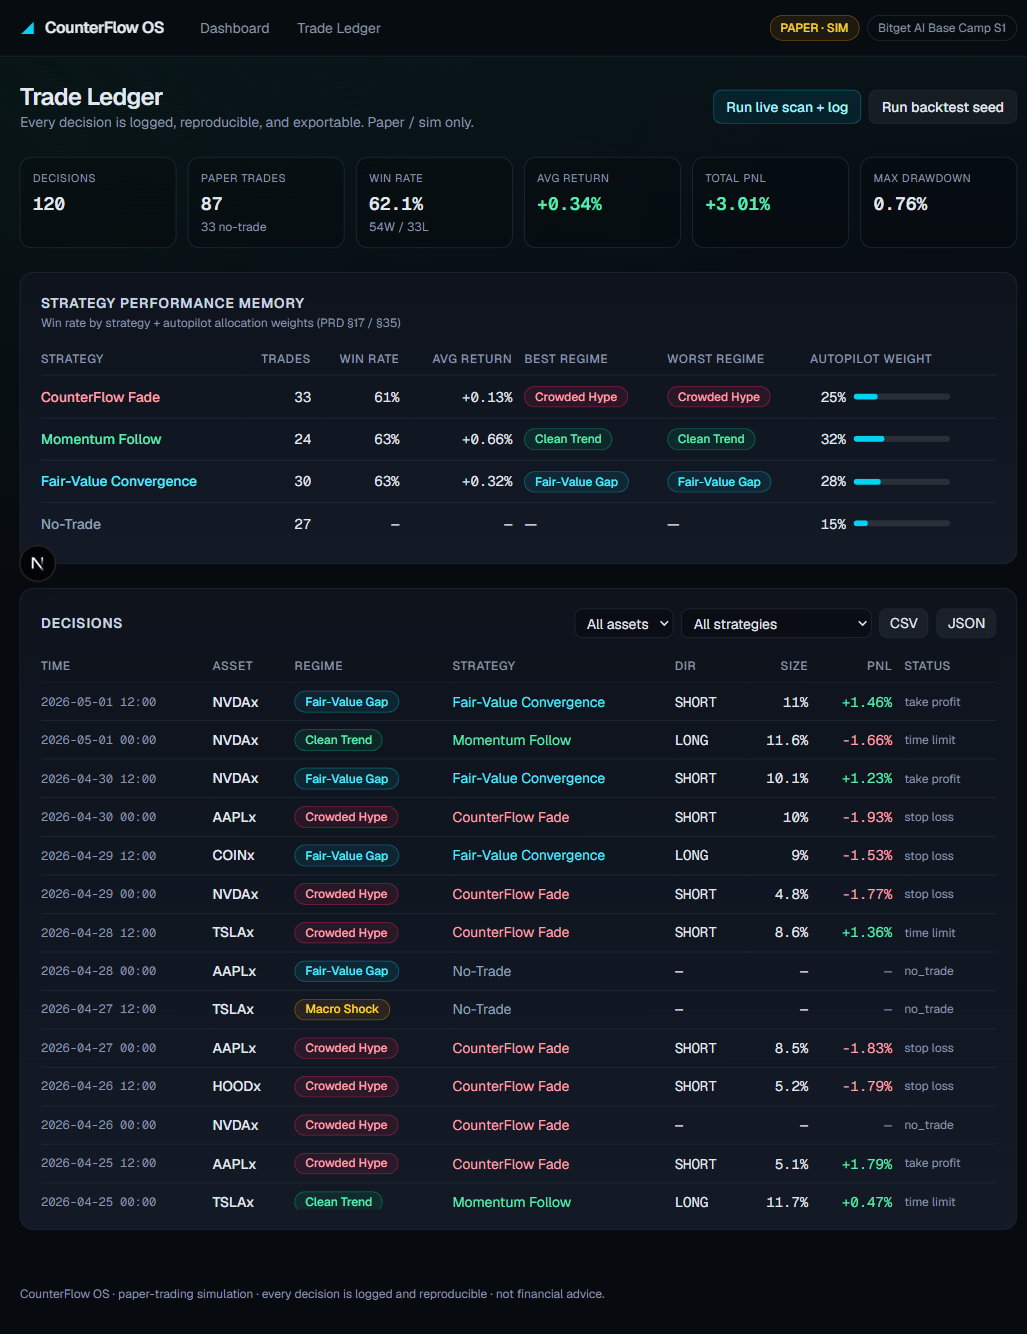
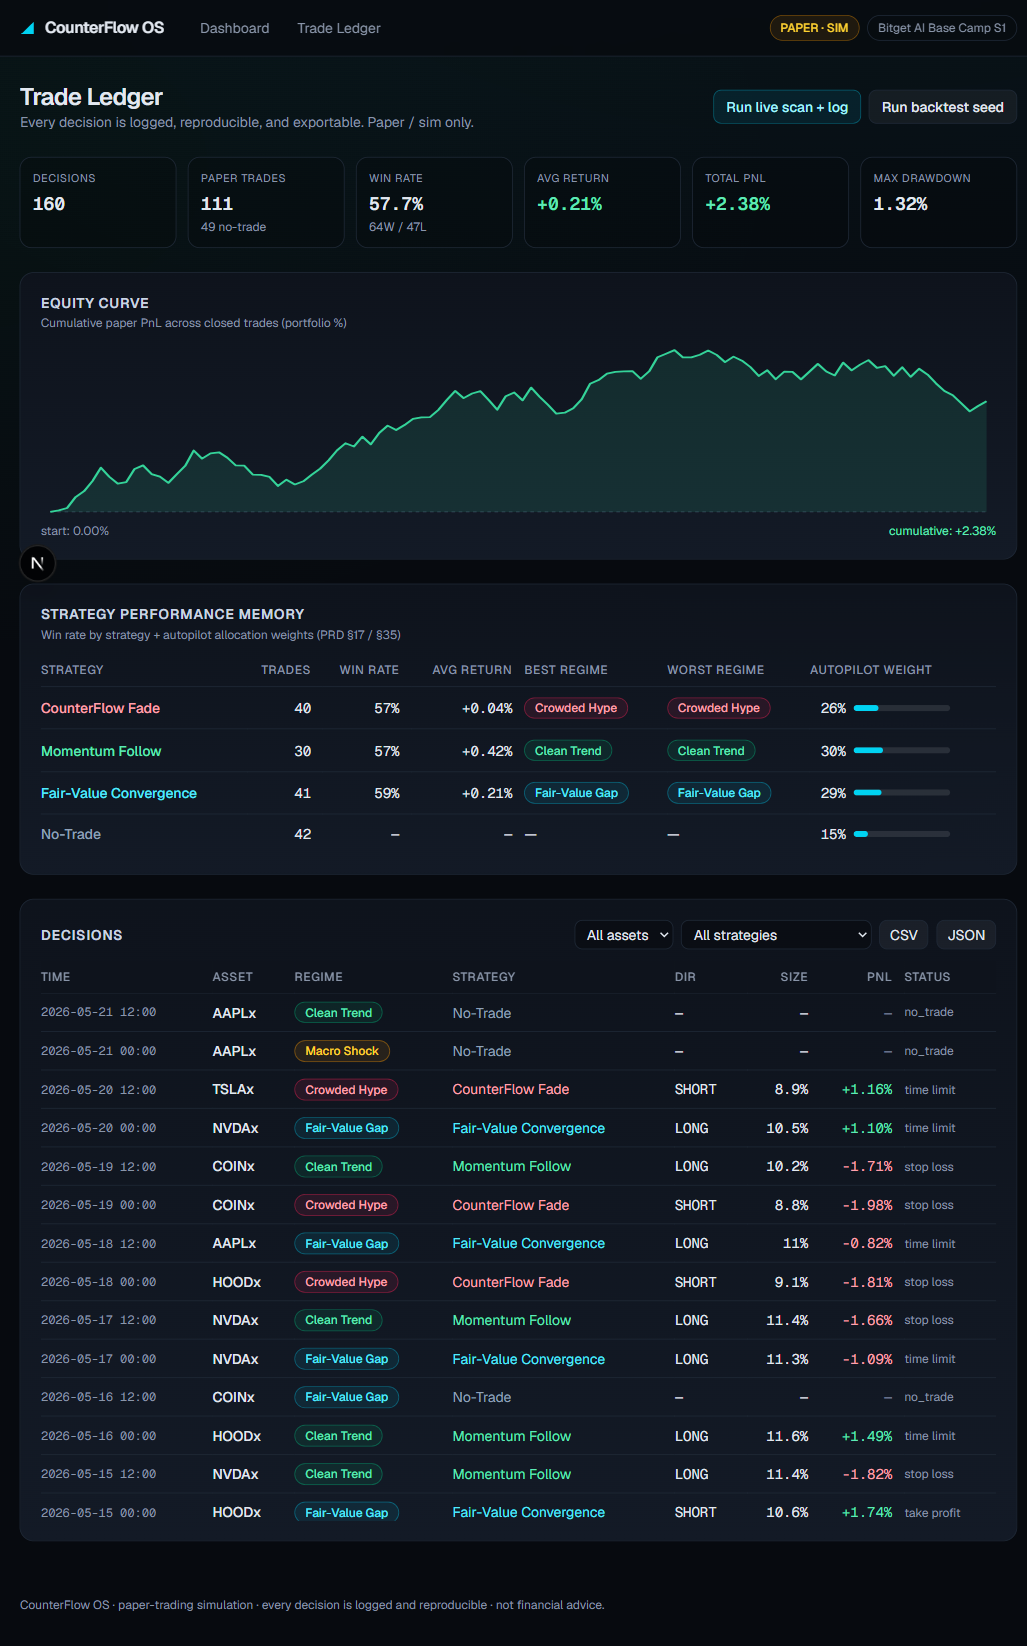
Add equity curve to ledger page + committed backtest report
- EquityChart: pure-SVG cumulative paper-PnL curve over closed trades (no chart dep).
- Wire it into the ledger view; refresh the ledger screenshot.
- samples/backtest-report.txt: reproducible performance report artifact for judges.

diff --git a/src/components/EquityChart.tsx b/src/components/EquityChart.tsx
@@ -1,0 +1,44 @@
+"use client";
+
+// Pure-SVG equity curve — cumulative paper PnL over closed trades, in time order.
+// No chart dependency; scales to its container via viewBox.
+
+export default function EquityChart({ series }: { series: number[] }) {
+  if (series.length < 2) {
+    return <p className="py-6 text-sm text-muted">Not enough closed trades to plot an equity curve yet.</p>;
+  }
+
+  const W = 800;
+  const H = 200;
+  const pad = 8;
+  const min = Math.min(0, ...series);
+  const max = Math.max(0, ...series);
+  const range = max - min || 1;
+
+  const x = (i: number) => pad + (i / (series.length - 1)) * (W - 2 * pad);
+  const y = (v: number) => H - pad - ((v - min) / range) * (H - 2 * pad);
+  const zeroY = y(0);
+
+  const line = series.map((v, i) => `${i === 0 ? "M" : "L"}${x(i).toFixed(1)},${y(v).toFixed(1)}`).join(" ");
+  const area = `${line} L${x(series.length - 1).toFixed(1)},${zeroY.toFixed(1)} L${x(0).toFixed(1)},${zeroY.toFixed(1)} Z`;
+  const last = series[series.length - 1];
+  const positive = last >= 0;
+  const stroke = positive ? "#34d399" : "#fb7185";
+  const fill = positive ? "rgba(52,211,153,0.12)" : "rgba(251,113,133,0.12)";
+
+  return (
+    <div className="w-full">
+      <svg viewBox={`0 0 ${W} ${H}`} className="h-44 w-full" preserveAspectRatio="none">
+        <line x1={pad} x2={W - pad} y1={zeroY} y2={zeroY} stroke="#334155" strokeDasharray="3 3" strokeWidth="1" />
+        <path d={area} fill={fill} />
+        <path d={line} fill="none" stroke={stroke} strokeWidth="2" strokeLinejoin="round" />
+      </svg>
+      <div className="mt-1 flex justify-between text-xs text-muted">
+        <span>start: 0.00%</span>
+        <span className={positive ? "text-emerald-300" : "text-rose-300"}>
+          cumulative: {last >= 0 ? "+" : ""}{last.toFixed(2)}%
+        </span>
+      </div>
+    </div>
+  );
+}

diff --git a/src/components/LedgerView.tsx b/src/components/LedgerView.tsx
@@ -4,6 +4,7 @@ import { useEffect, useState } from "react";
 import type { LedgerEntry, LedgerStats, StrategyMemory } from "@/lib/types";
 import { ASSET_SYMBOLS, STRATEGIES } from "@/lib/types";
 import { Panel, SectionTitle, Badge, Bar, Stat, Spinner } from "@/components/ui";
+import EquityChart from "@/components/EquityChart";
 import {
   pctStr,
   regimeColor,
@@ -81,6 +82,21 @@ export default function LedgerView() {
   }
 
   const stats = data?.stats;
+
+  // Cumulative paper-PnL equity curve from closed trades, in chronological order.
+  const equitySeries: number[] = (() => {
+    const closed = (data?.entries ?? [])
+      .filter((e) => e.status === "closed" && e.pnlValue !== null)
+      .sort((a, b) => a.timestamp.localeCompare(b.timestamp));
+    let cum = 0;
+    const pts = [0];
+    for (const e of closed) {
+      cum += e.pnlValue as number;
+      pts.push(Number(cum.toFixed(4)));
+    }
+    return pts;
+  })();
+
   const exportQuery = new URLSearchParams();
   if (asset) exportQuery.set("asset", asset);
   if (strategy) exportQuery.set("strategy", strategy);
@@ -139,6 +155,15 @@ export default function LedgerView() {
           <Stat label="Max drawdown" value={`${stats.maxDrawdownPct.toFixed(2)}%`} />
         </div>
       )}
+
+      {/* Equity curve */}
+      <Panel>
+        <SectionTitle
+          title="Equity Curve"
+          hint="Cumulative paper PnL across closed trades (portfolio %)"
+        />
+        {data ? <EquityChart series={equitySeries} /> : <Spinner />}
+      </Panel>
 
       {/* Strategy performance memory */}
       <Panel>